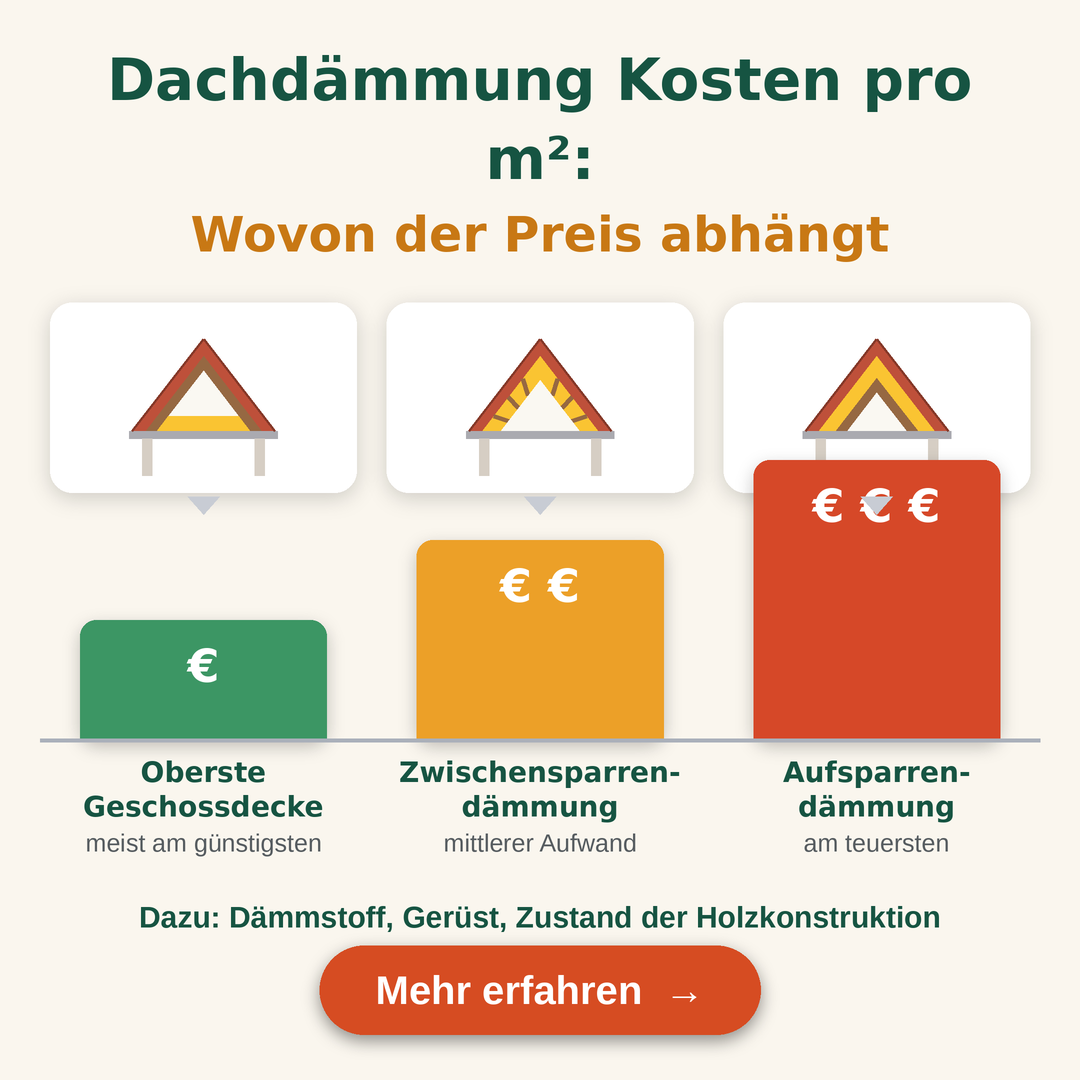
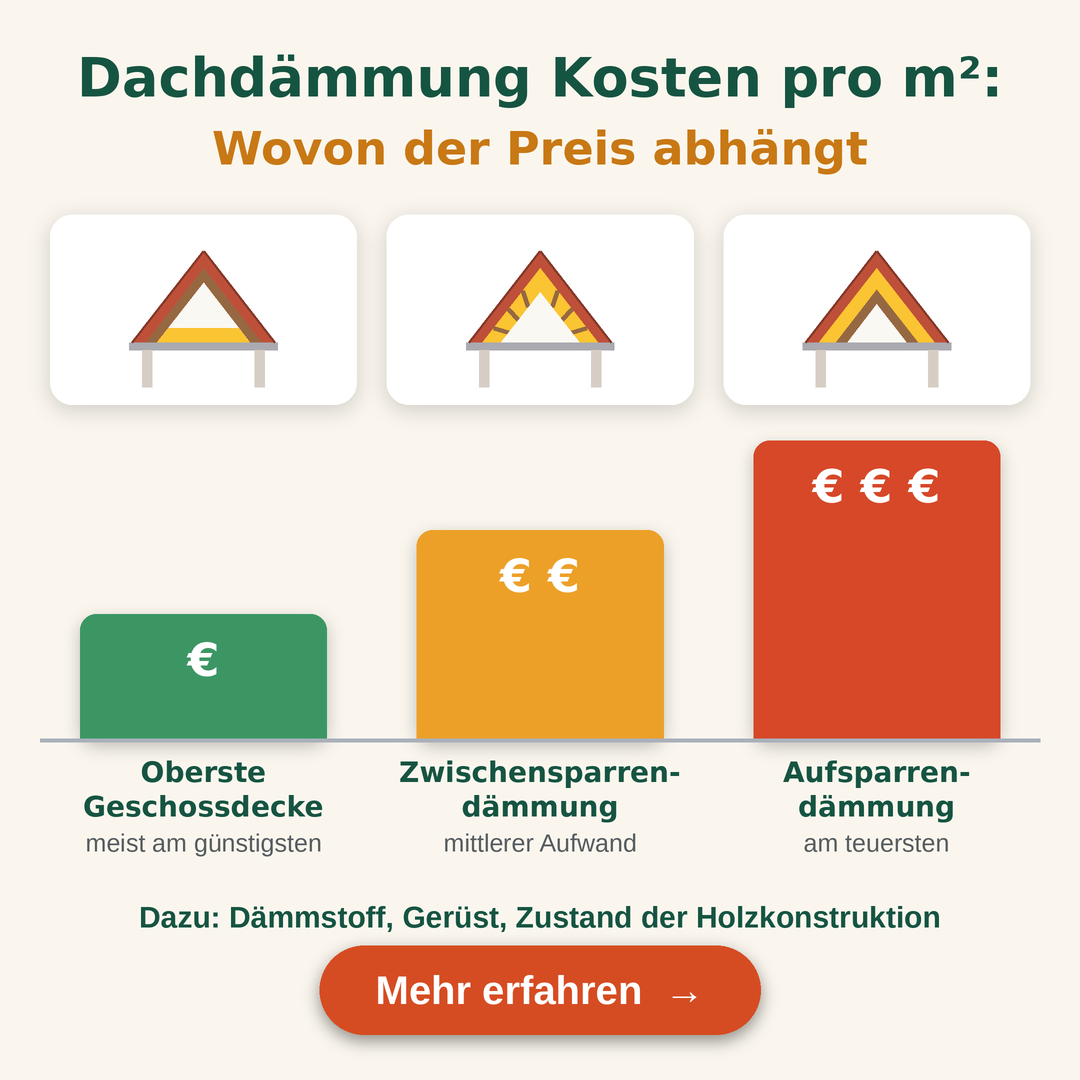
Packs wave 4: final creatives for 10 60+ offers, attached from asset store
Claude-Session: https://claude.ai/code/session_01C37NqGH9zFdyb8ik1XzQDR

diff --git a/creatives/ready/2026-09-30_packs/src/w4_ukde.py b/creatives/ready/2026-09-30_packs/src/w4_ukde.py
@@ -198,37 +198,38 @@ def zone_house(c, cx, cy, s, col, bg, zone, ins=INS):
     roof = [(cx - s * 0.42, ey + s * 0.01), (cx, ay), (cx + s * 0.42, ey + s * 0.01)]
     c.poly(roof, mix(col, bg, 0.55))
     c.poly([(cx - s * 0.3, ey), (cx, ay + s * 0.08), (cx + s * 0.3, ey)], mix(col, bg, 0.9))
-    hi = mix(ins, (0, 0, 0), 0.0)
+    hi = ins
+    od = mix(ins, (0, 0, 0), 0.3)
     if zone == "attic":
-        c.rect((x0 + s * 0.02, ey - s * 0.035, x1 - s * 0.02, ey + s * 0.035), fill=hi, r=s * 0.01)
+        c.rect((x0 + s * 0.015, ey - s * 0.05, x1 - s * 0.015, ey + s * 0.04), fill=hi, outline=od, width=s * 0.012, r=s * 0.01)
     elif zone == "roof":
         for sgn in (-1, 1):
-            p0 = (cx + sgn * s * 0.3, ey)
-            p1 = (cx, ay + s * 0.08)
-            c.line([p0, p1], hi, s * 0.075)
-        c.circle(cx, ay + s * 0.08, s * 0.035, fill=hi)
+            p0 = (cx + sgn * s * 0.3, ey - s * 0.02)
+            p1 = (cx, ay + s * 0.1)
+            c.line([p0, p1], hi, s * 0.1)
+        c.circle(cx, ay + s * 0.1, s * 0.05, fill=hi)
     elif zone == "facade":
-        c.rect((x0 - s * 0.06, ey, x0, gy), fill=hi, r=s * 0.01)
-        c.rect((x1, ey, x1 + s * 0.06, gy), fill=hi, r=s * 0.01)
+        c.rect((x0 - s * 0.085, ey, x0, gy), fill=hi, outline=od, width=s * 0.012, r=s * 0.01)
+        c.rect((x1, ey, x1 + s * 0.085, gy), fill=hi, outline=od, width=s * 0.012, r=s * 0.01)
     elif zone == "cellar":
-        c.rect((x0 + s * 0.04, gy + s * 0.015, x1 - s * 0.04, gy + s * 0.075), fill=hi, r=s * 0.01)
+        c.rect((x0 + s * 0.03, gy + s * 0.015, x1 - s * 0.03, gy + s * 0.1), fill=hi, outline=od, width=s * 0.012, r=s * 0.01)
     c.line(roof, col, s * 0.03)
 
 
 def w4_z_attic(c, cx, cy, s, col, bg=WH):
-    zone_house(c, cx, cy, s, col, bg, "attic")
+    zone_house(c, cx, cy + s * 0.03, s * 1.3, col, bg, "attic")
 
 
 def w4_z_roof(c, cx, cy, s, col, bg=WH):
-    zone_house(c, cx, cy, s, col, bg, "roof")
+    zone_house(c, cx, cy + s * 0.03, s * 1.3, col, bg, "roof")
 
 
 def w4_z_facade(c, cx, cy, s, col, bg=WH):
-    zone_house(c, cx, cy, s, col, bg, "facade")
+    zone_house(c, cx, cy + s * 0.03, s * 1.3, col, bg, "facade")
 
 
 def w4_z_cellar(c, cx, cy, s, col, bg=WH):
-    zone_house(c, cx, cy, s, col, bg, "cellar")
+    zone_house(c, cx, cy + s * 0.03, s * 1.3, col, bg, "cellar")
 
 
 W4_ICONS = {k: v for k, v in dict(globals()).items() if k.startswith("w4_") and callable(v)}
@@ -532,9 +533,10 @@ def hero_solar(c, box):
         ay = y0 + H * 0.1
         t.poly([(hx0 - 40, wy + 4), ((hx0 + hx1) / 2 - 60, ay), ((hx0 + hx1) / 2 + 60, ay), (hx1 + 40, wy + 4)], (80, 80, 88))
         solar_roof(t, [(hx0 + 10, wy - 10), (hx1 - 10, wy - 10), ((hx0 + hx1) / 2 + 50, ay + 14), ((hx0 + hx1) / 2 - 50, ay + 14)], rows=2, cols=7)
-        for wx in (hx0 + 40, hx0 + 150, hx1 - 130):
+        for wx in (hx0 + 40, hx1 - 130):
             t.rect((wx, wy + 24, wx + 90, wy + 90), fill=(170, 206, 232), outline=WH, width=6)
-        t.rect((hx1 - 240, wy + 40, hx1 - 170, gy), fill=(150, 90, 60))
+        t.rect(((hx0 + hx1) / 2 - 36, wy + 36, (hx0 + hx1) / 2 + 36, gy), fill=(150, 90, 60))
+        t.circle((hx0 + hx1) / 2 + 22, (wy + 36 + gy) / 2 + 6, 4, fill=(236, 196, 90))
         W3.bush(t, x0 + 150, gy + 6, 120, col=(70, 140, 80))
         W3.bush(t, x1 - 200, gy + 6, 140, col=(60, 130, 76))
     S.clip_draw(c, box, 28, fn)
@@ -681,10 +683,10 @@ def sc_house_section(c):
     c.poly([(612, 728), (660, 690), (690, 710), (728, 680), (728, 728)], (110, 150, 100))
     c.line([(800, gy - 26), (800, 700)], (80, 70, 60), 6)
     c.poly([(770, 700), (830, 700), (815, 660), (785, 660)], (250, 220, 150))
-    A.armchair(c, 430, 780, gy - 26, 230, (170, 70, 60))
-    A.seated(c, 430, 772, gy - 26, 330, SKIN[3], (230, 230, 234), "bun", (70, 110, 150), (60, 64, 80),
-             arm_l=(372, 790), arm_r=(488, 790))
-    c.rect((370, 770, 490, 800), fill=(236, 200, 120), r=8)  # плед
+    A.armchair(c, 430, 766, gy - 26, 180, (170, 70, 60))
+    A.seated(c, 430, 758, gy - 26, 250, SKIN[3], (230, 230, 234), "bun", (70, 110, 150), (60, 64, 80),
+             arm_l=(388, 768), arm_r=(472, 768))
+    c.rect((384, 758, 476, 788), fill=(236, 200, 120), r=8)  # плед
     # перекрытие чердака с изоляцией
     c.rect((wall[0] - 26, 560, wall[2] + 26, 582), fill=(160, 150, 140))
     c.rect((wall[0] + 10, 540, wall[2] - 10, 562), fill=INS)
@@ -707,9 +709,15 @@ def sc_house_section(c):
     c.rect((560, 510, 610, 540), fill=(170, 130, 90), r=4)
     c.line([Lr, apex, Rr], (140, 56, 40), 8)
     c.poly([(120, 594), (apex[0], 342), (960, 594), (950, 590), (apex[0], 350), (130, 590)], (248, 250, 255))
-    # снег
-    for _ in range(60):
-        c.circle(rnd.uniform(0, W), rnd.uniform(340, 850), rnd.uniform(2, 4.5), fill=WH, alpha=200)
+    # снег (только снаружи дома)
+    k = 0
+    while k < 55:
+        x, y = rnd.uniform(0, W), rnd.uniform(330, 850)
+        inside = 150 <= x <= 930 and y >= 590 or (y >= 350 and abs(x - 540) <= (y - 340) * 1.6 + 20 and y < 600)
+        if inside:
+            continue
+        c.circle(x, y, rnd.uniform(2, 4.5), fill=WH, alpha=200)
+        k += 1
 
 
 def sc_solar_offers(c):
@@ -923,7 +931,8 @@ def ladder(P, t):
     ic_y = y + 30
     ic_h = 190
     base = 740
-    hs = t.get("heights", (120, 200, 280))
+    maxh = base - (ic_y + ic_h + 36)
+    hs = [maxh * f for f in t.get("heights", (0.42, 0.7, 1.0))]
     cols = t.get("step_cols", ((60, 150, 100), (236, 160, 40), (214, 72, 40)))
     for k, (method, lab, desc, eur) in enumerate(steps):
         x0 = 50 + k * (cw + g)
@@ -937,7 +946,6 @@ def ladder(P, t):
         c.rect(bb, fill=cols[k], r=16)
         c.rect((bb[0], bb[3] - 16, bb[2], bb[3]), fill=cols[k])
         c.text((cx, bb[1] + 46), eur, "db", 46, WH, anchor="mm")
-        c.poly([(cx - 16, ic_y + ic_h + 4), (cx + 16, ic_y + ic_h + 4), (cx, ic_y + ic_h + 22)], (200, 204, 212))
     c.line([(40, base), (1040, base)], (170, 176, 186), 4)
     for k, (method, lab, desc, eur) in enumerate(steps):
         x0 = 50 + k * (cw + g)
@@ -1138,7 +1146,7 @@ PACKS[4] = dict(
            pal=dict(bg=(240, 246, 242), bg2=(212, 230, 220), ink=GREEN4, sub=(70, 84, 80), acc=GREEN4, t2=ORG4, btn=ORG4),
            src="раздел «Dämmung Förderung 2026: so funktioniert der Zuschuss» («Wichtig: vor Beginn der Arbeiten») + «In fünf Schritten»",
            note="опросник-калькулятор: шаги 1–3 из 5 шагов статьи, вопрос о сроке заявки; без процентов"),
-    c=dict(fn="ladder", title="Dachdämmung Kosten pro m²:", title2="Wovon der Preis abhängt", size=58,
+    c=dict(fn="ladder", title="Dachdämmung Kosten pro m²:", title2="Wovon der Preis abhängt", size=54,
            steps=[("ceiling", "Oberste\nGeschossdecke", "meist am günstigsten", "€"),
                   ("between", "Zwischensparren-\ndämmung", "mittlerer Aufwand", "€ €"),
                   ("above", "Aufsparren-\ndämmung", "am teuersten", "€ € €")],
@@ -1166,7 +1174,7 @@ PACKS[5] = dict(
     b=dict(fn="quiz", layout="card", title="Solar aufs Dach 2026:", title2="die Frage zum Zuschuss", size=58,
            tag="QUIZ", step="Frage 1 von 3", prog=0.33,
            q="Gibt es 2026 einen bundesweiten Zuschuss für eine Solaranlage auf dem Dach?",
-           opts=["Ja, für alle", "Nein", "Nur mit Speicher", "Weiß nicht"],
+           opts=["Ja", "Nein", "Nur mit Speicher", "Weiß nicht"],
            pal=dict(bg=(16, 48, 96), bg2=(8, 26, 58), ink=WH, sub=(206, 218, 236), acc=GREEN5, t2=SUN5, btn=GREEN5, deco=True),
            src="раздел «Photovoltaik Förderung 2026: was es gibt und was nicht» (ответ по статье — «Nein»)",
            note="тёмно-синий фон, вопрос о правилах поддержки; без «staatlicher Zuschuss» как обещания"),
@@ -1177,9 +1185,9 @@ PACKS[5] = dict(
            foot="Angebote: Preis pro kWp mit und ohne Speicher",
            src="раздел «Photovoltaik mit Speicher Kosten» + «Angebote Komplettanlagen vergleichen» (foot)",
            note="таблица без € и центов; «rund ein Drittel» — формулировка статьи (в списке сверки)"),
-    d=dict(fn="scene_d", scene="w4_solar_offers", style="card", card_box=(60, 36, 1020, 446), frame=True, font="lserb",
-           kicker="PHOTOVOLTAIK 2026", title="Komplettangebote vergleichen: 5 Punkte, die zählen",
-           sub="Preis pro kWp, Garantien, Gerüst und Zählerschrank, Ertragsprognose, Wartung", size=54, lines=3, btn_size=40, btn_off=64,
+    d=dict(fn="scene_d", scene="w4_solar_offers", style="card", card_box=(60, 36, 1020, 456), frame=True, font="lserb",
+           kicker="PHOTOVOLTAIK 2026", title="Komplettangebote vergleichen: 5\u00a0Punkte, die zählen",
+           sub="Preis pro kWp, Garantien, Gerüst, Ertragsprognose, Wartung", sub_size=29, size=52, lines=2, btn_size=40, btn_off=62,
            pal=dict(frame=NAVY5, ink=NAVY5, sub=(80, 92, 108), acc=ORG5, btn=GREEN5),
            scene_text="ANGEBOT 1 / ANGEBOT 2 / ANGEBOT 3 · kWp",
            src="раздел «Photovoltaik Angebote Komplettanlagen vergleichen» (5 пунктов)",

diff --git a/creatives/ready/2026-09-30_packs/src/w4_us.py b/creatives/ready/2026-09-30_packs/src/w4_us.py
@@ -251,13 +251,13 @@ def w4_house_clock(c, cx, cy, s, col, bg=WH, acc=(236, 164, 48)):
 def w4_age65(c, cx, cy, s, col, bg=WH):
     c.circle(cx, cy, s * 0.42, fill=col)
     c.circle(cx, cy, s * 0.34, outline=bg, width=s * 0.025)
-    c.text((cx, cy + s * 0.01), "65+", "db", s * 0.3, bg, anchor="mm")
+    c.text((cx, cy + s * 0.01), "65+", "db", s * 0.23, bg, anchor="mm")
 
 
 def w4_under65(c, cx, cy, s, col, bg=WH):
     c.circle(cx, cy, s * 0.42, fill=col)
     c.circle(cx, cy, s * 0.34, outline=bg, width=s * 0.025)
-    c.text((cx, cy + s * 0.01), "<65", "db", s * 0.28, bg, anchor="mm")
+    c.text((cx, cy + s * 0.01), "<65", "db", s * 0.22, bg, anchor="mm")
 
 
 def w4_pharmacy(c, cx, cy, s, col, bg=WH, awn=(40, 150, 110)):
@@ -275,6 +275,8 @@ def w4_pharmacy(c, cx, cy, s, col, bg=WH, awn=(40, 150, 110)):
 
 def w4_doctor(c, cx, cy, s, col, bg=WH, acc=(232, 88, 70)):
     """Кабинет врача: стетоскоп."""
+    s = s * 0.86
+    cy = cy + s * 0.04
     c.arc((cx - s * 0.36, cy - s * 0.46, cx + s * 0.08, cy + s * 0.04), 0, 180, col, s * 0.06)
     for x in (cx - s * 0.36, cx + s * 0.08):
         c.line([(x, cy - s * 0.44), (x, cy - s * 0.2)], col, s * 0.06)
@@ -742,12 +744,12 @@ def sc_diabetic_kitchen(c):
 def sc_tax_library(c):
     """Библиотека: полки, настенный лист «APPLY BY», за столом волонтёр с ноутбуком и пожилая пара с папкой;
     на столе список «что взять» и счёт налога на дом. Верх (до y≈300) — полоса заголовка. Без эмблем и бланков ведомств."""
-    c.vgrad((0, 300, W, 800), (240, 234, 222), (226, 216, 198))
-    for y in (340, 450, 560):
+    c.vgrad((0, 240, W, 840), (240, 234, 222), (226, 216, 198))
+    for y in (300, 415, 530):
         WS.shelf_books(c, 40, y + 96, 700, seed=int(y))
         c.rect((30, y + 96, 710, y + 108), fill=(150, 108, 72), r=3)
     # лист со сроком на стене
-    cal_card(c, (770, 350, 1030, 600), "PROPERTY TAX RELIEF", (26, 92, 74),
+    cal_card(c, (770, 320, 1030, 570), "PROPERTY TAX RELIEF", (26, 92, 74),
              [("APPLY BY", "db", 40, (190, 60, 50)), ("the deadline", "sb", 30, (60, 60, 70)), ("renew on time", "sb", 30, (60, 60, 70))])
     # люди
     A.seated(c, 250, 930, 1100, 560, SKIN[0], (232, 232, 236), "bun", (200, 110, 96), (70, 80, 110), arm_l=(180, 846), arm_r=(330, 842))
@@ -758,12 +760,12 @@ def sc_tax_library(c):
     S.wood(c, (0, 834, W, W), (162, 118, 80), (142, 100, 66), lines=6, seed=61)
     c.rect((0, 820, W, 836), fill=(130, 90, 60))
     # ноутбук волонтёра (крышкой к зрителю)
-    c.rect((700, 730, 940, 850), fill=(60, 66, 80), r=10)
-    c.circle(820, 790, 12, fill=(120, 126, 140))
-    c.rect((680, 846, 960, 860), fill=(80, 86, 100), r=4)
-    sheet_list(c, (40, 850, 400, 1070), -4, "WHAT TO BRING",
-               [("Photo ID", None), ("Income statements", None), ("Last year's return", None)], head_col=(26, 92, 74), size=26)
-    S.paper(c, (720, 880, 1040, 1080), 5, head="PROPERTY TAX BILL", head_size=24, lines=5)
+    c.rect((730, 766, 910, 850), fill=(60, 66, 80), r=10)
+    c.circle(820, 808, 10, fill=(120, 126, 140))
+    c.rect((714, 846, 926, 858), fill=(80, 86, 100), r=4)
+    sheet_list(c, (30, 824, 380, 1052), -3, "WHAT TO BRING",
+               [("Photo ID", None), ("Income statements", None), ("Last year's return", None)], head_col=(26, 92, 74), size=25)
+    S.paper(c, (724, 866, 1044, 1066), 5, head="PROPERTY TAX BILL", head_size=24, lines=5)
 
 
 def sc_shingles_pharmacy(c):
@@ -772,7 +774,7 @@ def sc_shingles_pharmacy(c):
     c.vgrad((0, 0, W, 760), (244, 240, 250), (226, 220, 240))
     # полки
     rnd = random.Random(11)
-    for y in (360, 470, 580):
+    for y in (330, 440, 550):
         c.rect((440, y + 88, 1060, y + 100), fill=(200, 200, 212), r=3)
         x = 450
         while x < 1040:
@@ -786,7 +788,7 @@ def sc_shingles_pharmacy(c):
     A.standing(c, 760, 1040, 640, SKIN[2], (60, 44, 36), "short", (250, 250, 252), (70, 80, 110), arm_l=(700, 770), arm_r=(820, 770))
     c.rect((736, 560, 784, 610), fill=(0, 140, 140), r=4)
     # лист-напоминание на стене слева
-    cal_card(c, (60, 350, 400, 640), "SHINGLES VACCINE", (104, 60, 140),
+    cal_card(c, (60, 316, 400, 606), "SHINGLES VACCINE", (104, 60, 140),
              [("Dose 1", "db", 40, (40, 40, 50)), ("↓", "db", 34, (104, 60, 140)), ("Dose 2", "db", 40, (40, 40, 50)),
               ("in 2–6 months", "sb", 30, (190, 70, 60))])
     # стойка
@@ -937,14 +939,14 @@ PACKS[4] = dict(
            src="раздел 2 «Senior property tax relief: four common types» (4 пункта) + раздел 3 (заявление и сроки)",
            note="2×2 с пояснением из статьи под каждым типом; без сумм и без «save / refund»"),
     b=dict(fn="quiz", layout="phone", title="Retirement tax quiz:", title2="when Social Security gets taxed",
-           sub="What counts as combined income, and where the line sits", size=54, left_y=250,
+           sub="What counts as combined income, and the cutoff", size=54, left_y=250,
            tag="TAX QUIZ", step="Question 1 of 3", prog=0.33,
            q="Below what combined income are Social Security benefits generally not taxed for a single filer?",
            opts=["$15,000", "$25,000", "$50,000", "Not sure"],
            pal=dict(bg=(26, 92, 74), bg2=(10, 50, 40), ink=WH, sub=(206, 230, 220), acc=GOLD4, btn=BTN4),
            src="раздел 1 «Federal tax breaks after 65», пункт Social Security income (ответ: $25,000 для одиночки, $32,000 для пары)",
            note="тёмно-зелёный фон, телефон с тестом; вопрос о правиле, не о доходе зрителя"),
-    c=dict(fn="compare", layout="twocol", title="Turning 65 changes the tax return", sub="Federal basics before and after 65", size=58,
+    c=dict(fn="compare", layout="twocol", title="Turning 65 changes", title2="the tax return", sub="Federal basics before and after 65", size=60,
            cols=[("UNDER 65", "w4_under65", INK4), ("65 AND OLDER", "w4_age65", GREEN4)],
            rows=[("STANDARD DEDUCTION", "the regular amount", "regular + an extra amount"),
                  ("SENIOR DEDUCTION", "not available", "temporary, tax years 2025–2028"),
@@ -952,8 +954,8 @@ PACKS[4] = dict(
            foot="Deductions lower taxable income – they are not payments",
            src="вступление («Turning 65 changes a household's taxes…») + раздел 1 (увеличенный стандартный вычет, временный вычет 2025–2028 «whether or not the filer itemizes», «they are not payments»)",
            note="две колонки до/после 65 без сумм ($6,000 на крео не выносится — gaps); без «refund / get»"),
-    d=dict(fn="scene_d", scene="w4_tax_library", style="band", band_h=300, title="Volunteer tax prep after 60",
-           sub="Trained volunteers prepare returns at no charge in tax season – what to bring", size=62, lines=2, btn_y=1012, btn_size=42,
+    d=dict(fn="scene_d", scene="w4_tax_library", style="band", band_h=244, title="Volunteer tax prep after 60",
+           sub="Trained volunteers prepare returns at no charge in tax season – what to bring", size=60, lines=1, btn_y=1026, btn_size=40,
            pal=dict(band=INK4, band_ink=WH, band_sub=(214, 222, 236), btn=BTN4),
            scene_text="PROPERTY TAX RELIEF: APPLY BY the deadline, renew on time / WHAT TO BRING: Photo ID · Income statements · Last year's return / PROPERTY TAX BILL",
            src="раздел 4 «Tax counseling for the elderly and other free help» (волонтёры, 60+, сезон, что взять) + раздел 3 (заявление и сроки); хук РК 3",
